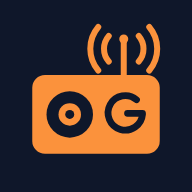
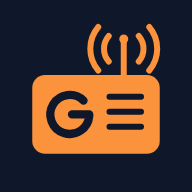
Icono: la G hace de altavoz a la izquierda (v3.3)
Claude-Session: https://claude.ai/code/session_01YA4njNouRiwQcH1d1BKvKa

diff --git a/index.html b/index.html
@@ -9,13 +9,13 @@
   <meta name="apple-mobile-web-app-status-bar-style" content="black-translucent">
   <meta name="apple-mobile-web-app-title" content="GilaviRadio">
   <meta name="theme-color" content="#0f172a">
-  <link rel="apple-touch-icon" href="icons/apple-touch-icon.png?v=3.2">
+  <link rel="apple-touch-icon" href="icons/apple-touch-icon.png?v=3.3">
   <link rel="manifest" href="manifest.webmanifest">
-  <link rel="stylesheet" href="style.css?v=3.2">
+  <link rel="stylesheet" href="style.css?v=3.3">
 </head>
 <body>
   <header class="top">
-    <h1><img src="icons/logo.svg?v=3.2" class="appLogo" alt="">GilaviRadio</h1>
+    <h1><img src="icons/logo.svg?v=3.3" class="appLogo" alt="">GilaviRadio</h1>
     <div class="topBtns">
       <button id="sleepBtn" class="chip" title="Temporizador">⏾ <span id="sleepLabel">Apagar</span></button>
       <button id="infoBtn" class="chip round" aria-label="Información e historial">i</button>
@@ -171,7 +171,7 @@
   <audio id="audio" preload="none"></audio>
   <div id="toast" class="toast" hidden></div>
 
-  <script src="tz.js?v=3.2"></script>
-  <script src="app.js?v=3.2"></script>
+  <script src="tz.js?v=3.3"></script>
+  <script src="app.js?v=3.3"></script>
 </body>
 </html>

diff --git a/app.js b/app.js
@@ -813,7 +813,7 @@ document.querySelector(".pInfo").addEventListener("click", () => openStationInfo
 $("rLogo").addEventListener("click", () => openStationInfo(current));
 
 // ---------- Historial de escucha ----------
-const APP_VERSION = "3.2";
+const APP_VERSION = "3.3";
 // Actualiza votos/escuchas/tendencia de las favoritas (los datos guardados se quedan viejos)
 async function refreshFavStats() {
   if (!favs.length) return;

diff --git a/sw.js b/sw.js
@@ -1,5 +1,5 @@
 // Guarda la interfaz de la app para que abra rápido. Las emisoras y la API siempre van por red.
-const CACHE = "gilaviradio-v33";
+const CACHE = "gilaviradio-v34";
 const SHELL = ["./", "index.html", "style.css", "app.js", "tz.js", "manifest.webmanifest",
   "icons/icon-192.png", "icons/icon-512.png", "icons/apple-touch-icon.png", "icons/logo.svg"];
 
